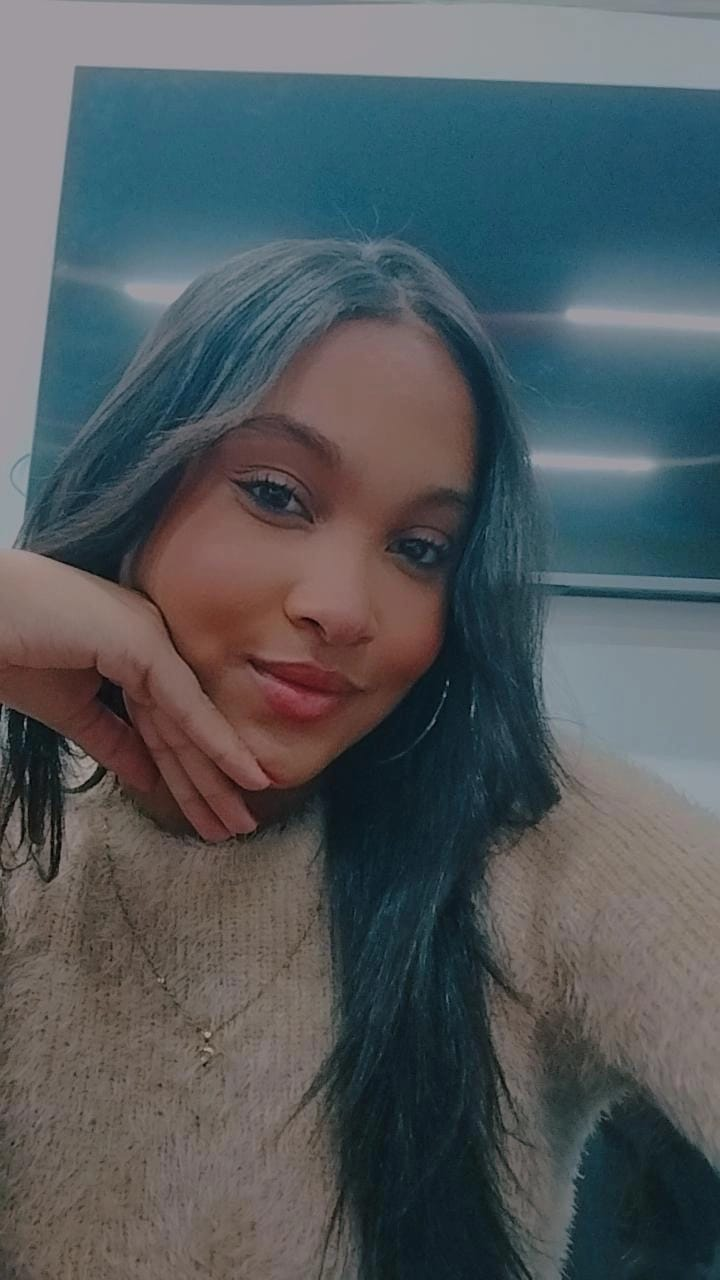
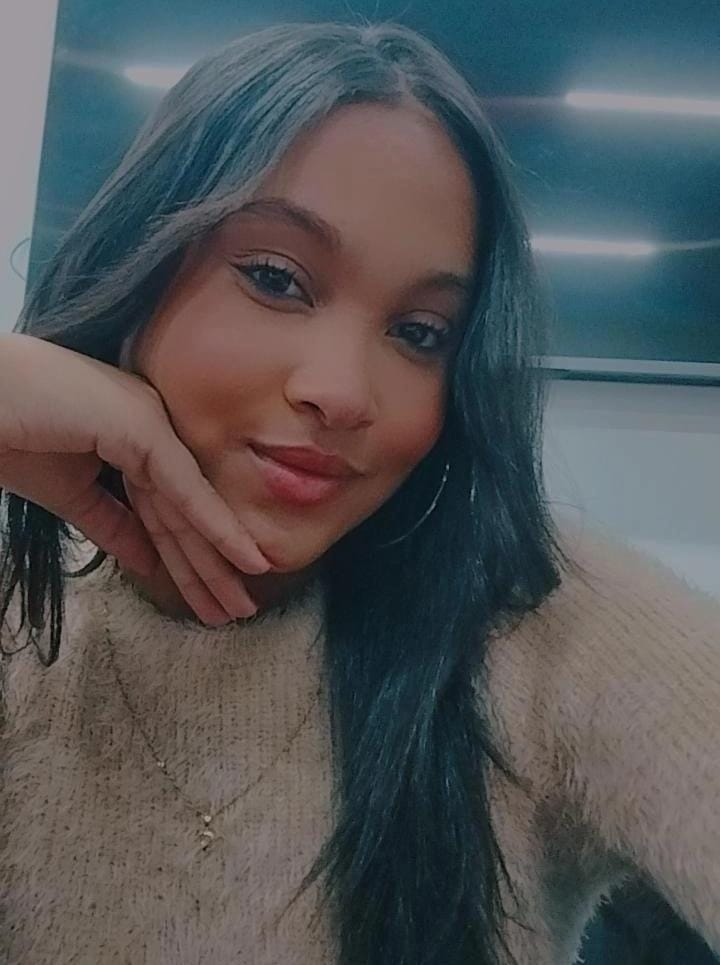
atual

diff --git a/index.html b/index.html
@@ -21,7 +21,7 @@
     <h1 class="titulo"> IA Advocacia & Consultoria Jurídica</h1>
     <ul class="advogada-lista js-tabmenu">
       <li>
-        <img src="img/apresentaçao.jpg">
+        <img src="img/muie.jpeg">
       </li>
       <li>
         <img src="img/imgmnh.jpeg">
@@ -30,7 +30,7 @@
         <img src="img/missao.jpg">
       </li>
       <li>
-        <img src="img/serviço.jpg">
+        <img src="img/escrita.jpeg">
       </li>
     </ul>
     <div class="advogada-descricao js-tabcontent">
